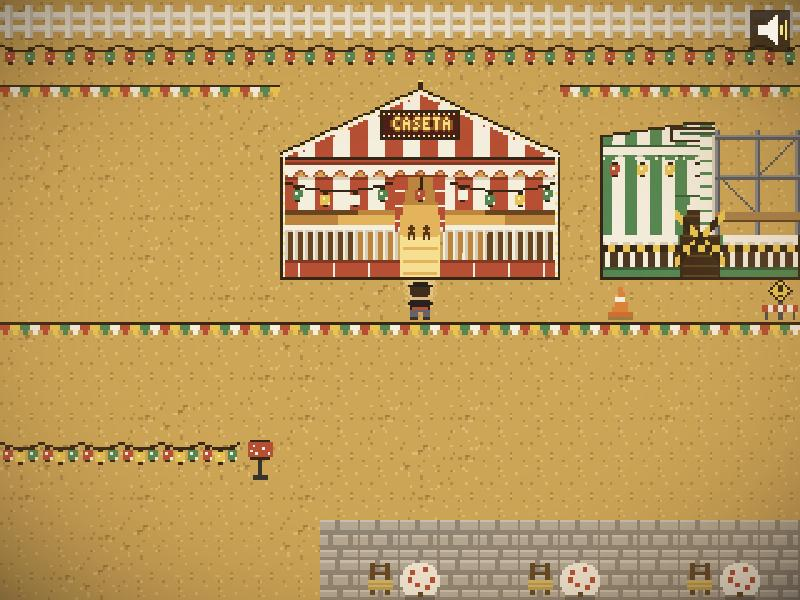
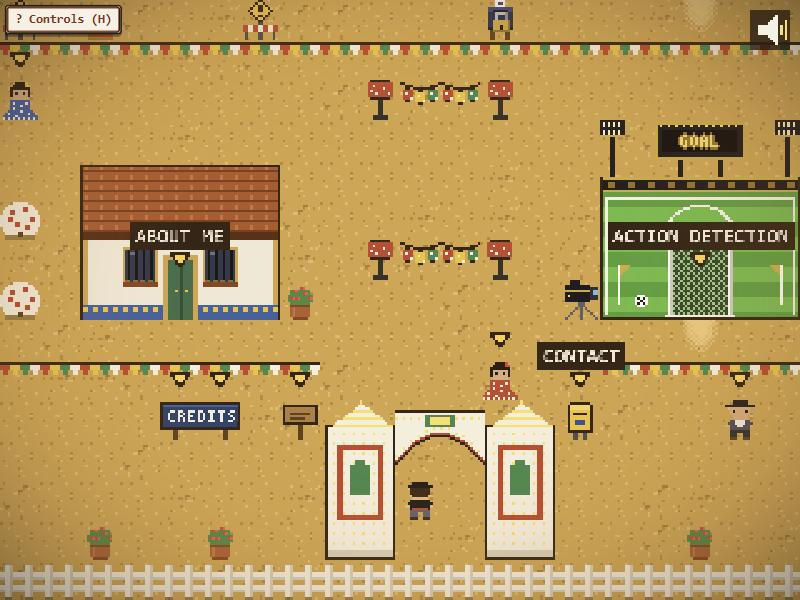
docs: README layout notes and a new screenshot for the compact town

diff --git a/README.md b/README.md
@@ -5,7 +5,7 @@ street, and each caseta (the striped party tents of the Feria de Abril) is one o
 into a door to step inside, press a button to read a project card, or check out a caseta that's still
 being built.
 
-![The Caseta-musica caseta, a caseta under construction and the player on the albero street](docs/screenshot.jpg)
+![The player at the portada gate, with the flamenca, the post box, the About house and the Action Detection caseta around the avenue](docs/screenshot.jpg)
 
 - **Caseta-musica** (the red-and-white caseta): inside, the jukebox shows the project card.
 - **Secure Voting** (the navy town hall with the padlocked door): inside, the padlocked ballot box shows the card for a Django voting platform.
@@ -53,9 +53,12 @@ A building in the map only carries an `id`, so adding or unlocking a project nee
 ## Add a project
 
 1. **Place a building.** The overworld is generated by `tools/gen-maps.mjs` (it writes
-   `public/assets/maps/feria.json`). In `buildFeria()`, place a caseta piece and a building object on its
-   door tile, for example `m.piece(CPIECES.casetaObras, x, 3)` and
-   `m.object('building', x + 2, 6, { id: 'my-project' })`, then run `node tools/gen-maps.mjs`.
+   `public/assets/maps/feria.json`). In `buildFeria()`, add an entry to the top street list `rowA`
+   (for example `{ id: 'my-project', piece: CPIECES.casetaObras, dress: works }`): the generator lays the
+   row out left to right, and puts the building object on the door tile.
+   The layout constants at the top (`FERIA_WIDTH`, `FERIA_HEIGHT`, `ROW_A_DOOR_Y`, `ROW_B_DOOR_Y`,
+   `AVENUE_X`, `ROW_A_X`, `CASETA_GAP`) size the 34x22 town; widen the map when a row gets full.
+   Then run `node tools/gen-maps.mjs`.
    You can also open `feria.json` in Tiled and add an object of type `building` with a string property
    `id`, but re-running the generator overwrites hand edits.
 2. **Describe it.** Add one entry with the same `id` to `src/content/projects.ts` (title, summary, tech,
